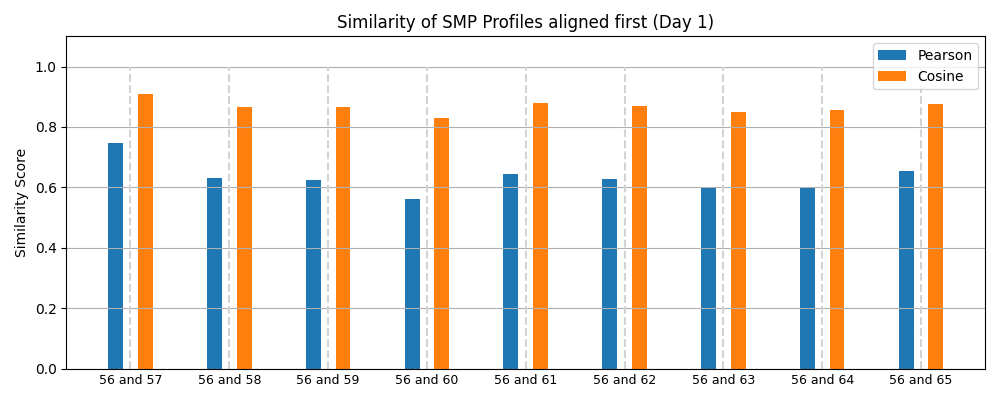
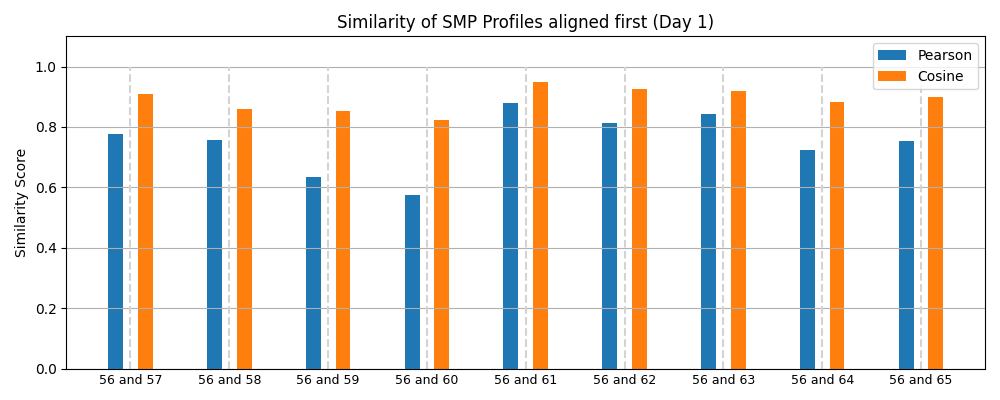
similarity with updated aligned date, small change for loading csv without surface detection

diff --git a/code_SMP/similarity.py b/code_SMP/similarity.py
@@ -6,7 +6,7 @@ from pathlib import Path
 from code_SMP.readSMP import load_all_smp_profiles
 from code_visualizations.plotSMP import bulid_pairs
 from scipy.stats import pearsonr
-from pairs import single_distance_pairs, double_distance_pairs, increasing_distance_pairs, decreasing_distance_pairs
+from code_SMP.pairs import single_distance_pairs, double_distance_pairs, increasing_distance_pairs, decreasing_distance_pairs
 
 #use same logic as in offset.py to build pairs of profiles to a reference profile
 def build_daywise_pairs(smp_profiles):

diff --git a/code_SMP/offset.py b/code_SMP/offset.py
@@ -204,7 +204,7 @@ def align_profiles(smp_profiles, paired_profiles=None, plot=True, save=False):
 
 if __name__ == "__main__":
     smp_profiles = load_all_smp_profiles()
-    #to aligning two profiles
+    #to align two profiles
     smp_profiles_shifted = align_profiles(smp_profiles, paired_profiles=None, plot=True, save=True)
     #to align all profiles to the first one of the day
     smp_profiles_shifted = align_profiles_to_reference(smp_profiles, save=True)

diff --git a/code_SMP/readSMP.py b/code_SMP/readSMP.py
@@ -118,7 +118,7 @@ def load_pnt(file, Trim_ground = True, Trim_surface = True, Trim = False):
             df["distance"] = df["distance"] - surface  # reset distance so it starts at 0
     return df, profile_name, spatial_resolution
 
-def load_csv(file, Trim_ground = True, Trim_surface = True):
+def load_csv(file, Trim_ground = True, Trim_surface = False):
     profile_name = Path(file).stem
     df = pd.read_csv(file)
     if Trim_ground == True:
